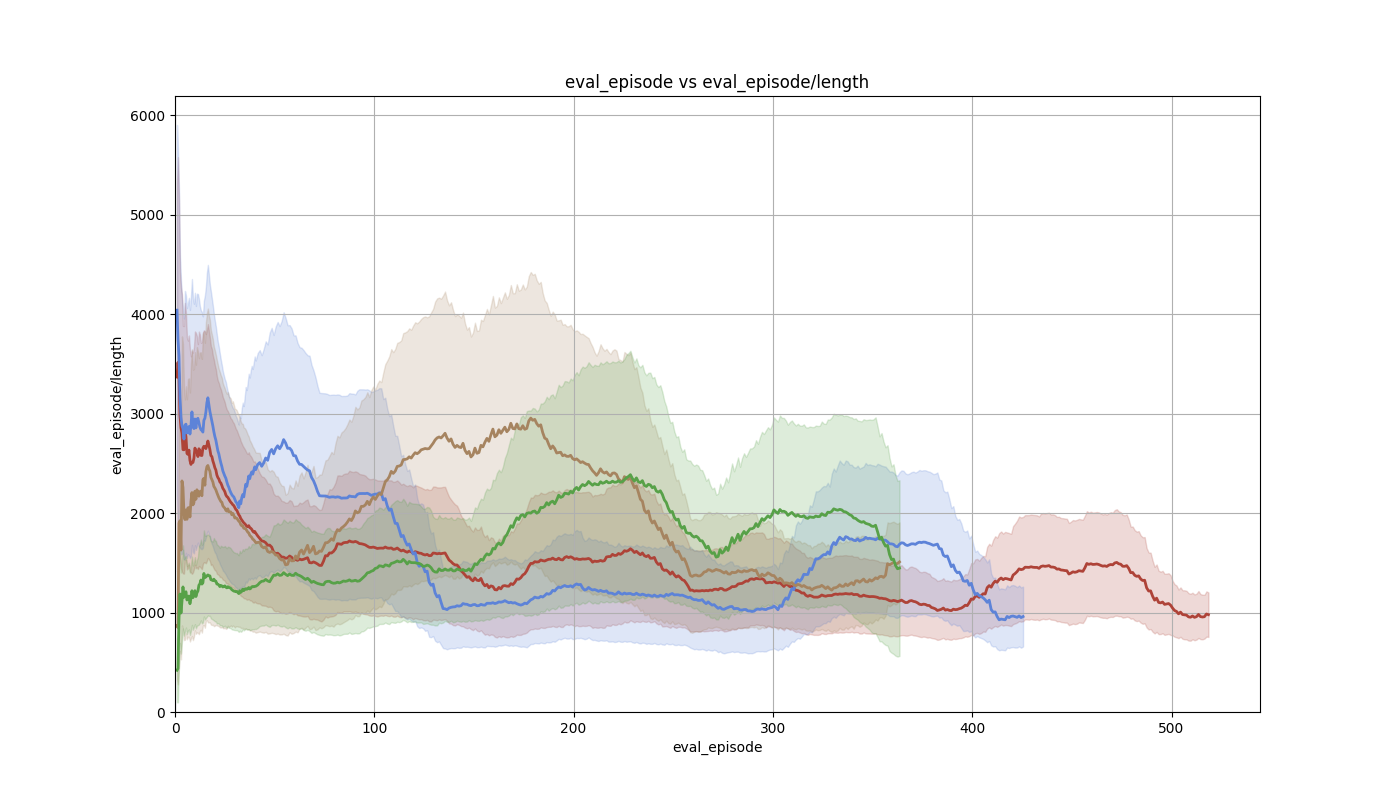
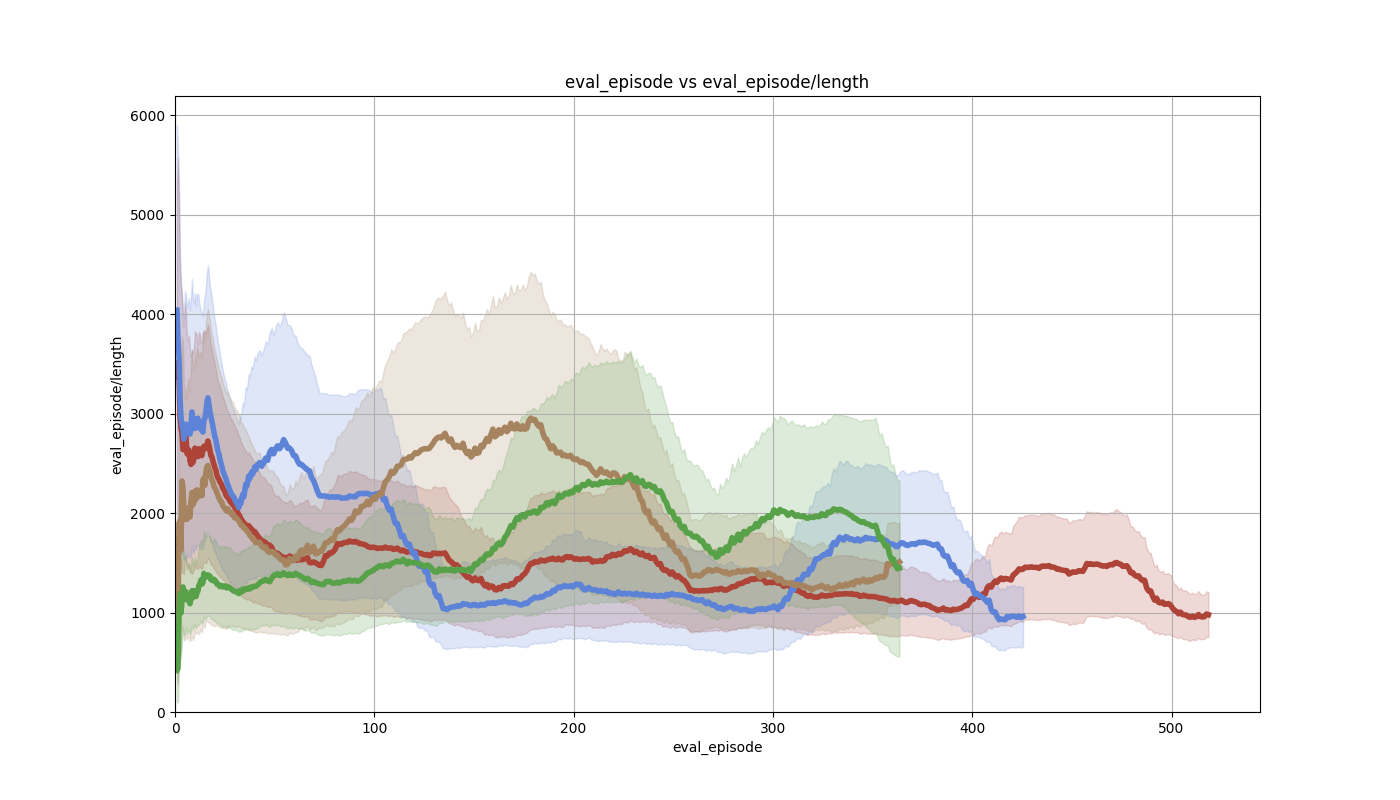
:sparkles: Figure thicker

diff --git a/post_processing/draw_figures.py b/post_processing/draw_figures.py
@@ -71,9 +71,11 @@ def plot_groups(
             # ].ffill()
             # eval_episode에 대해 그룹화하고 가장 작은 값 선택
             if axis_y_name == "eval_episode":
-                group_data[i][axis_y_name] = group_data[i].groupby(axis_x_name, as_index=False).agg(
-                    {axis_y_name: "max"}
-                )[axis_y_name]
+                group_data[i][axis_y_name] = (
+                    group_data[i]
+                    .groupby(axis_x_name, as_index=False)
+                    .agg({axis_y_name: "max"})[axis_y_name]
+                )
             group_data[i].ffill(inplace=True)
             group_data[i].bfill(inplace=True)
             assert group_data[i][axis_y_name].isnull().sum() == 0
@@ -102,7 +104,7 @@ def plot_groups(
             avg_data[axis_x_name],
             avg_data[axis_y_name],
             label=f"group: {group_name}",
-            linewidth=2.0,
+            linewidth=4.0,
             color=color,
         )
         plt.fill_between(
